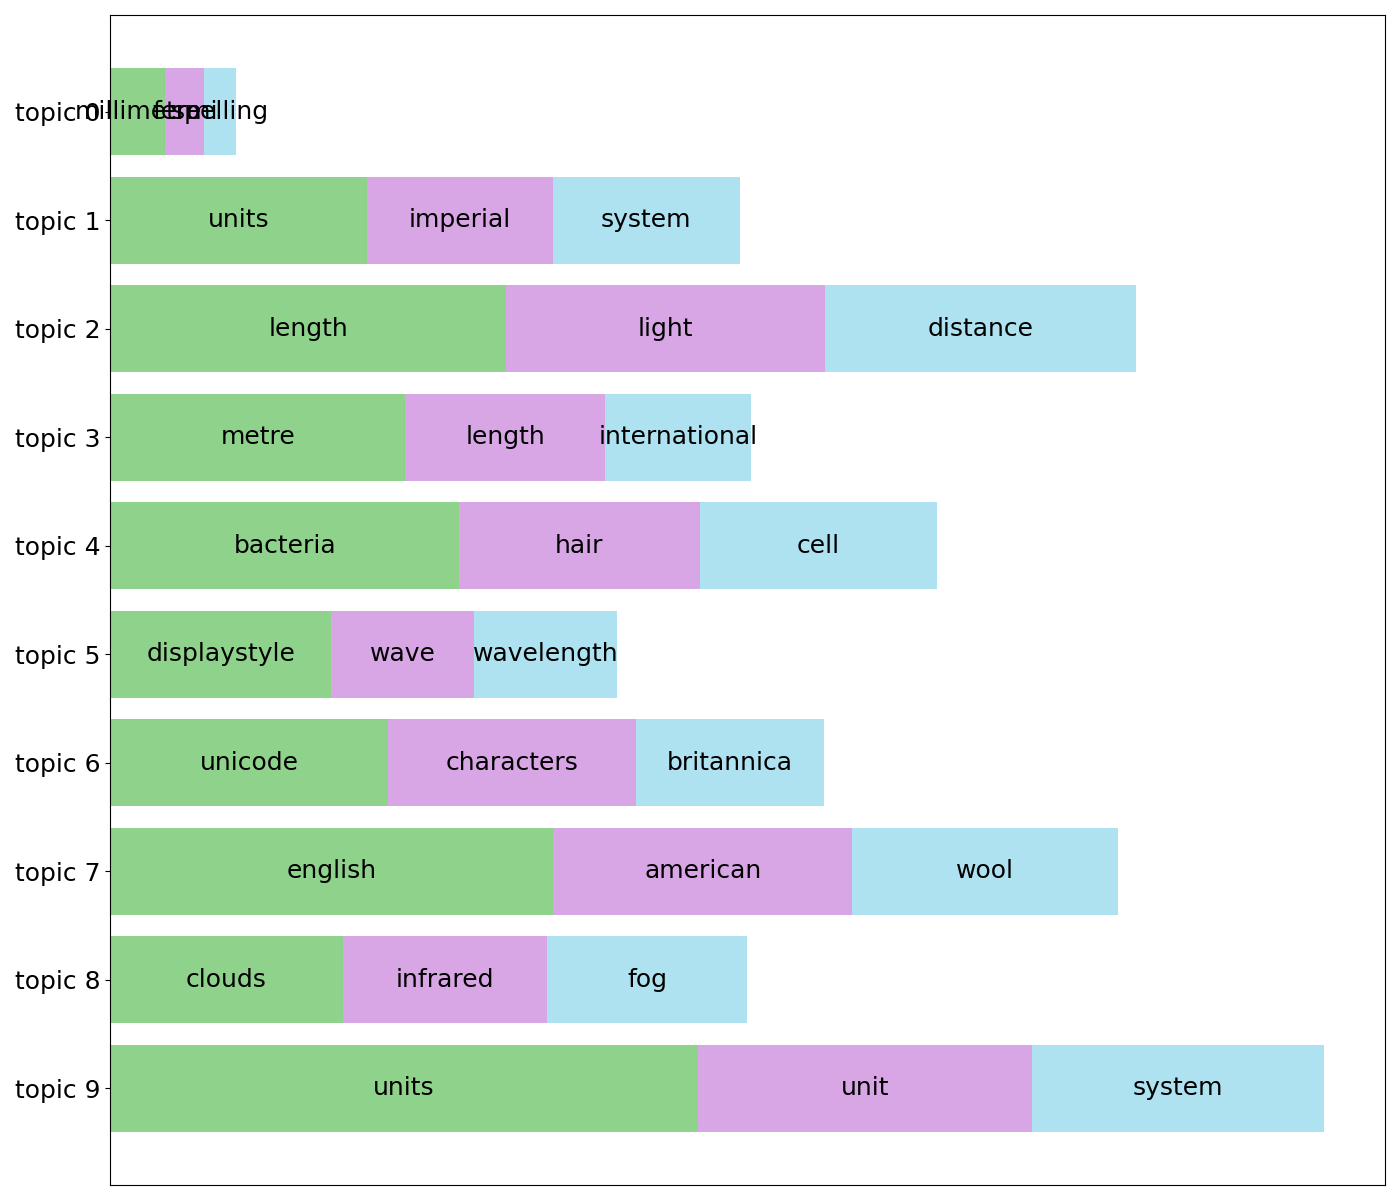
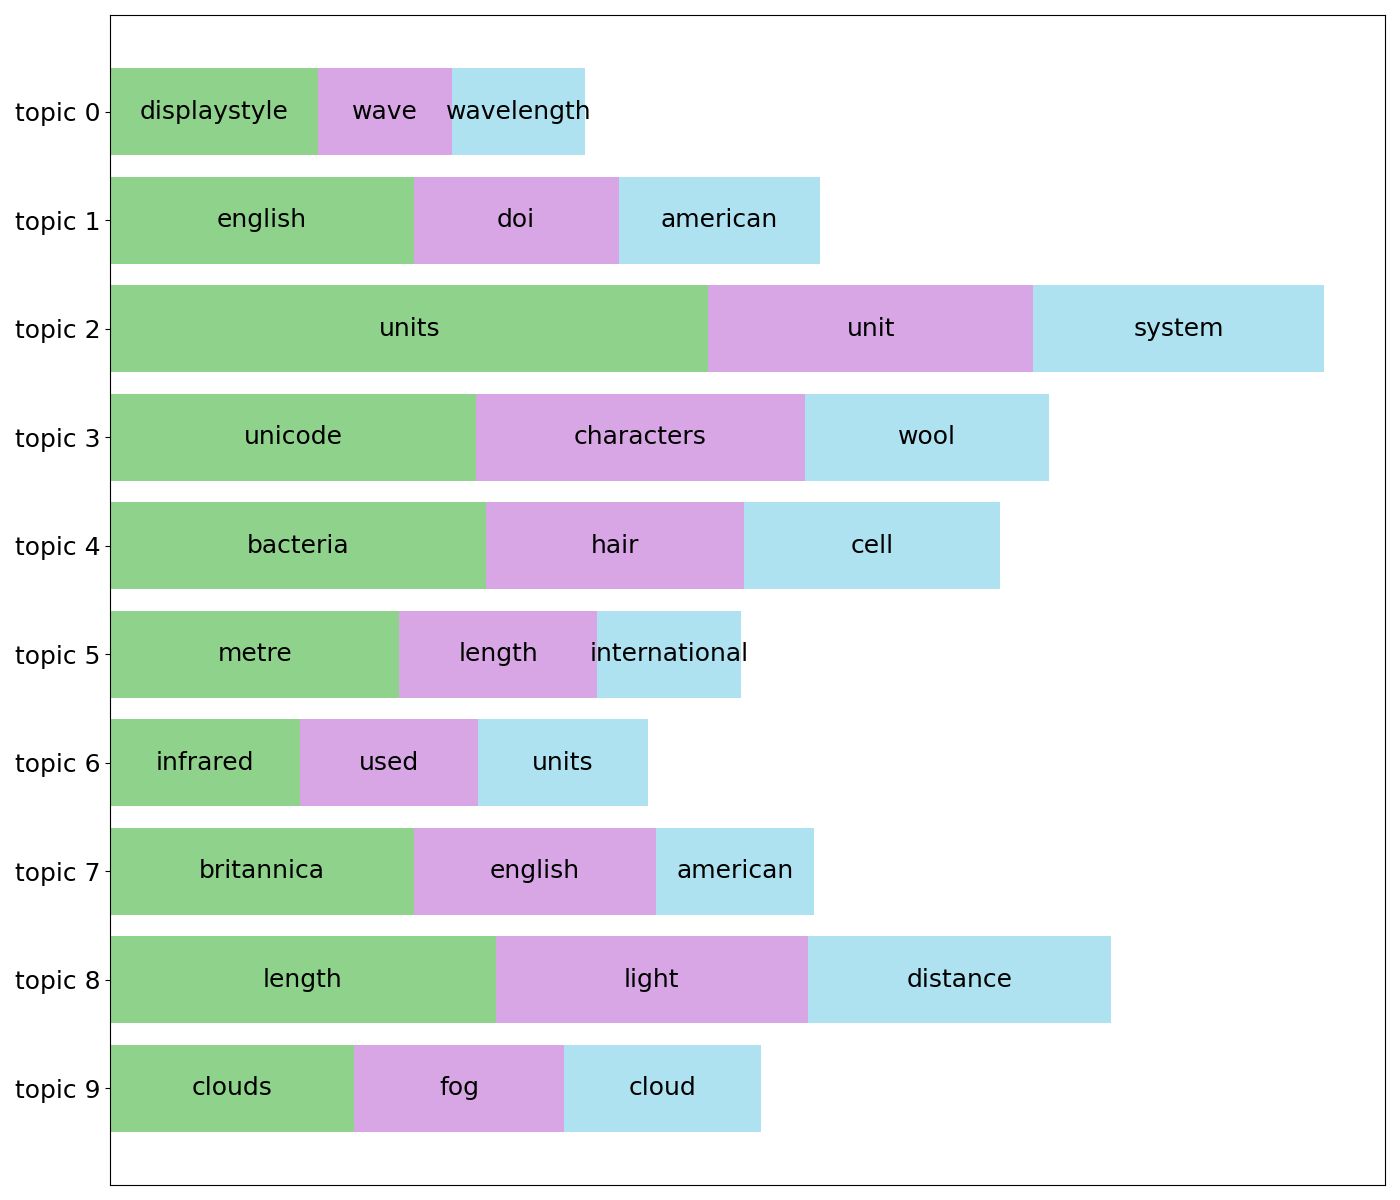
big change

diff --git a/templates/topic.html b/templates/topic.html
@@ -22,12 +22,32 @@
                 <a href="{{ url_for('one_topic', id = x) }}">Topic {{x}}</a>
                 <img src="{{ url_for('static', filename='images/red.png') }}" height="10" width="{{t3[x][0][1]*100}}%">
                 <img src="{{ url_for('static', filename='images/green.png') }}" height="10" width="{{t3[x][1][1]*100}}%">
-                <img src="{{ url_for('static', filename='images/blue.png') }}" height="10" width="{{t3[x][2][1]*100}}%">
+                <img src="{{ url_for('static', filename='images/blue.png') }}" height="10" width="{{t3[x][2][1]*100}}%"><br>
+
+                <span style="color: red;">{{ t3words[x][0] }}</span>
+                <span style="color: green;">{{ t3words[x][1] }}</span>
+                <span style="color: blue;">{{ t3words[x][2] }}</span>
                 <br>
                 <hr>
             {% endfor %}
+            
+        </div>
+        <div>
+            {% for x in range(count) %}
+                <a href="{{ url_for('get_one_document', id=x)}}">Document: {{names[x]}} </a>
+                <img src="{{ url_for('static', filename='images/red.png') }}" height="10" width="{{t3Doc[x][0][1]*30}}%">
+                <img src="{{ url_for('static', filename='images/green.png') }}" height="10" width="{{t3Doc[x][1][1]*30}}%">
+                <img src="{{ url_for('static', filename='images/blue.png') }}" height="10" width="{{t3Doc[x][2][1]*30}}%"><br>
+                <span style="color: red;">{{ docTopics[x][0] }}</span>
+                <span style="color: green;">{{ docTopics[x][1] }}</span>
+                <span style="color: blue;">{{ docTopics[x][2] }}</span>
+                <br>
+                <hr>
+                
+            {% endfor %}
             <a href="{{ url_for('get_documents') }}">View Documents</a>
         </div>
+
         {{top_img}}
         {{doc_img}}
     </body>

diff --git a/templates/singleDocument.html b/templates/singleDocument.html
@@ -1,0 +1,25 @@
+<!DOCTYPE html>
+<html lang="en">
+    <head>
+        <meta charset="UTF-8">
+        <meta http-equiv="X-UA-Compatible" content="IE=edge" />
+        <meta name="viewport" content="width=device-width, initial-scale=1" />
+        
+        <link rel="stylesheet" href="/static/style.css">
+
+        <script type="text/javascript"> 
+           
+        </script>
+    </head>
+
+    <body>
+        <h1>Document</h1>
+        <div id="topic_model">
+            {{doc}}
+        </div>
+
+    </body>
+
+
+        
+</html>

diff --git a/topic.py b/topic.py
@@ -21,7 +21,7 @@ class TopicModel:
         self.topic_count = topic_count
         self.word_count = data.word_count
         self.data = data
-
+        
         if seed is None:
             seed = np.random.randint(10000)
         print("random number seed: %d" % seed)
@@ -34,6 +34,7 @@ class TopicModel:
         # sample a random word-given-topic distribution
         alpha = [2]*self.word_count
         self.pr_wt = np.random.dirichlet(alpha,self.topic_count)
+
 
     def _learn(self,topics):
         """learn parameters from completed data"""
@@ -101,6 +102,18 @@ class TopicModel:
             all_topics_top3.append(top3)
 
         return all_topics_top3
+    
+    def print_pr_td(self):
+        all_topics_top3 = []
+
+        num_topics = len(self.pr_td)  # Get the number of topics dynamically
+        for topic_id in range(num_topics):
+            topic_pr = [(w, self.pr_td[topic_id][w]) for w in range(len(self.pr_td[topic_id]))]
+            topic_pr.sort(key=lambda x: x[1], reverse=True)
+            top3 = topic_pr[:3]
+            all_topics_top3.append(top3)
+
+        return all_topics_top3
 # create function to generate top 3 words & pass into print word prob table
 
     def print_topics(self, f=sys.stdout):
@@ -146,6 +159,17 @@ class TopicModel:
             
         for t,pr in topic_pr[:length]:
             print("{%20s} | %.4f%%" % (top3[t],100*pr) +"<br>\n", file = f)
+
+    def print_topic_probability_table2(self,pr,length=20, f=sys.stdout):
+        topic_pr = [ (w,p) for w,p in enumerate(pr) ]
+        topic_pr.sort(key=lambda x: x[1],reverse=True)
+        topThreeDocuments = []
+            
+        for t,pr in topic_pr[:length]:
+            topThreeDocuments.append(top3[t])
+
+        return topThreeDocuments
+
          
     def print_documents(self, f=sys.stdout):
         global doc_names 
@@ -154,6 +178,21 @@ class TopicModel:
             header = "%s" % self.data.titles[d]
             doc_names.append(header)
             self.print_topic_probability_table(pr_t,header, f=f)
+
+
+    def print_document_topics(self, f=sys.stdout):
+        newArr = []
+        for d, pr_t in enumerate(self.pr_td):
+            newArr.append(self.print_topic_probability_table2(pr_t, f=f))
+
+        return newArr
+
+    def getDocNames(self, f=sys.stdout):
+        docNames = []
+        for d, pr_t in enumerate(self.pr_td):
+            docNames.append(self.data.titles[d])
+
+        return docNames
 
     def print_documents2(self, f=sys.stdout):
         global doc_names 
@@ -183,7 +222,26 @@ class TopicModel:
         header = "Topic %d" % x
         self.data.print_word_probability_table(pr_w, header, f=f)
 
+    def print_one_document(self, x, f=sys.stdout):
+        # Check if the specified index x is within the valid range
+        if x < 0 or x >= len(self.pr_td):
+            raise ValueError("Index out of range")
 
+        doc_names = []
+
+        # Loop over the documents
+        for d, pr_t in enumerate(self.pr_td):
+            # Only process the document at index x
+            if d == x:
+                header = "%s" % self.data.titles[d]
+                doc_names.append(header)
+                self.print_topic_probability_table(pr_t, header, f=f)
+        
+        return doc_names
+
+    def get_top_three_words(self, x, f=sys.stdout):
+        pr_w = self.pr_wt[x]
+        return self.data.print_top_three_words(pr_w, f=f)
 
 
 def singleTopic(id):
@@ -206,6 +264,22 @@ def singleTopic(id):
     topic_link.close()
     return print_topic
 
+def printOneDocument(id):
+    topic_link = StringIO()
+
+    global tm
+    
+    tm.print_one_document(id, f=topic_link)
+
+    topic_link.seek(0)
+    print_topic = topic_link.read()
+    topic_link.close()
+    return print_topic
+
+def docTopic():
+    topic_link = StringIO
+    global tm
+    return tm.print_document_topics(f=topic_link)
 
 def topThreeProb():
     conn = sql.connect('article_db.db', check_same_thread=False)
@@ -218,17 +292,22 @@ def topThreeProb():
     topic_link = StringIO()
 
     global tm
-
+    
     return tm.print_pr_wt()
+
+def topThreeDocProb():
+    global tm
+    
+    return tm.print_pr_td()
+
+def returnDocName():
+    topic_link = StringIO()
+
+    global tm
+    return tm.getDocNames(f=topic_link)
 
 
 def printDocuments():
-    conn = sql.connect('article_db.db', check_same_thread=False)
-    c = conn.cursor()
-    c.execute("SELECT article_name, article_id, article_text, article_link FROM " + download.tablename)
-    articles = c.fetchall()
-    
-    data = DataSet(count_limit=count_limit, dirname = articles)
     topic_link = StringIO()
 
     global tm
@@ -239,6 +318,19 @@ def printDocuments():
     print_topic = topic_link.read()
     topic_link.close()
     return print_topic
+
+
+
+
+def getTopThreeWords():
+    topic_link = StringIO()
+    global tm
+    topThreeWords = []
+    for x in range(10):
+        topThreeWords.append(tm.get_top_three_words(x, topic_link))
+
+    return topThreeWords
+
 
 # load dataset
 def main():

diff --git a/dataset.py b/dataset.py
@@ -126,6 +126,8 @@ class DataSet:
             (topic.wp3).append(a)
             top_three += word + " | "
         
+        
+        
         print(header + " { " + "%20s " % (top_three) + "}" + "<br>\n", file = f)
         #print("==", header +"<br>\n", file = f)
         print("========================================" +"<br>\n", file = f)
@@ -133,6 +135,44 @@ class DataSet:
             word = self.words[w]
             print("%20s | %.4f%%" % (word,100*pr) +"<br>\n", file = f)
         #print_chart(top_x, word_pr)
+        return top_three
+    
+    def print_top_three_words(self,pr,length=20, f=sys.stdout):
+        word_pr = [ (w,p) for w,p in enumerate(pr) ]
+        word_pr.sort(key=lambda x: x[1],reverse=True)
+        top_three = []
+        
+        b = []
+        for w, pr in word_pr[0:3]:
+            word = self.words[w]
+            b.append(word)
+        topic.topics_list.append(b)
+        
+        for w, pr in word_pr[0:1]:
+            word = self.words[w]
+            a = []
+            a.append(word)
+            a.append(pr)
+            (topic.wp1).append(a)
+            top_three.append(word)
+        
+        for w, pr in word_pr[1:2]:
+            word = self.words[w]
+            a = []
+            a.append(word)
+            a.append(pr)
+            (topic.wp2).append(a)
+            top_three.append(word)
+        
+        for w, pr in word_pr[2:3]:
+            word = self.words[w]
+            a = []
+            a.append(word)
+            a.append(pr)
+            (topic.wp3).append(a)
+            top_three.append(word)
+        
+        
         return top_three
     
     def print_word_probability_table2(self,pr,header,length=20, f=sys.stdout):

diff --git a/app.py b/app.py
@@ -48,20 +48,31 @@ def get_documents():
 
     return render_template("returnDocuments.html", d = documents)
 
+@app.route('/documents/<int:id>', methods = ['GET', 'POST'])
+def get_one_document(id):
+     global topics
+     document = topic.printOneDocument(id)
+     document = Markup(document)
+
+     return render_template("singleDocument.html", doc = document)
+
 
 @app.route('/topic')
 def topics():
     global topics
     topics = topic.main()
     topics = Markup(topics)
+    docNames = topic.returnDocName()
     # Convert plot to image
     plot_to_img()
-
+    t3Words = topic.getTopThreeWords()
     topThree = topic.topThreeProb()
+    topThreeDoc = topic.topThreeDocProb()
+    topic_list = topic.docTopic()
 
     topchart = Markup(' <img src = "static/topicchart.png"> ')
     docchart = Markup(' <img src = "static/docchart.png"> ')
-    return render_template("topic.html", t=topics, top_img = topchart, doc_img = docchart, t3 = topThree)
+    return render_template("topic.html", t=topics, docTopics = topic_list, top_img = topchart, count = len(topThreeDoc), doc_img = docchart, names = docNames,  t3 = topThree, t3Doc = topThreeDoc, t3words = t3Words)
 
 @app.route('/text', methods=['POST'])
 def text():
@@ -75,4 +86,4 @@ def text():
     return render_template("text.html", t = topics, a_text = highlight_text)
 
 if __name__ == '__main__':
-    app.run(debug=True)
+    app.run(debug=True, port=8080)
